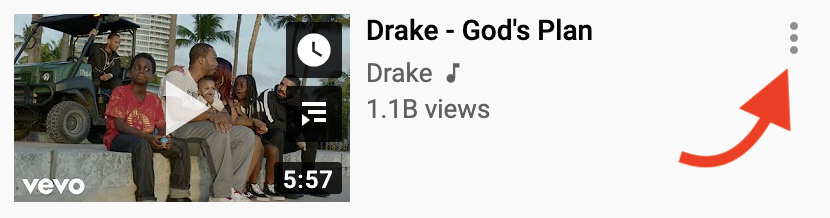
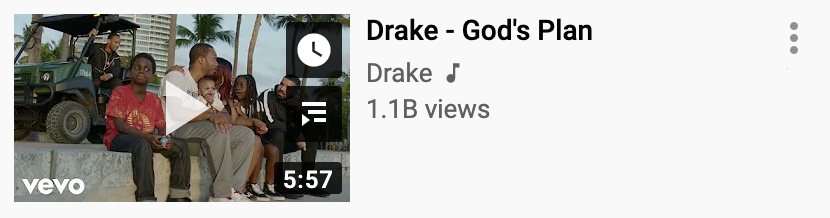
tab animation

Changed region(s): [[0.8133, 0.3303, 0.9639, 0.7706]]

diff --git a/src/content-scripts/index.scss b/src/content-scripts/index.scss
@@ -392,3 +392,107 @@ ytd-app {
       0 0px 80px rgba(0, 0, 0, 0.07);
   }
 }
+
+.relative {
+  position: relative;
+}
+
+.tappable {
+  position: absolute;
+  right: 50px;
+  top: 35px;
+  width: 64px;
+  height: 64px;
+  display: -webkit-box;
+  display: flex;
+  -webkit-box-pack: center;
+  justify-content: center;
+  -webkit-box-align: center;
+  align-items: center;
+}
+
+.tappable::before {
+  content: " ";
+  display: inline-block;
+  border-radius: 50%;
+  background: #11111177;
+  opacity: 0;
+  width: 100%;
+  height: 100%;
+  -webkit-transform: scale3d(0.25, 0.25, 1);
+  transform: scale3d(0.25, 0.25, 1);
+  -webkit-animation-name: ripple;
+  animation-name: ripple;
+  -webkit-animation-delay: 400ms;
+  animation-delay: 400ms;
+  -webkit-animation-duration: 2500ms;
+  animation-duration: 2500ms;
+  -webkit-animation-iteration-count: infinite;
+  animation-iteration-count: infinite;
+  -webkit-animation-timing-function: ease;
+  animation-timing-function: ease;
+}
+
+@-webkit-keyframes ripple {
+  0% {
+    opacity: 0;
+    -webkit-transform: scale3d(0.25, 0.25, 1);
+    transform: scale3d(0.25, 0.25, 1);
+  }
+
+  20% {
+    opacity: 1;
+    -webkit-transform: scale3d(0.1875, 0.1875, 1);
+    transform: scale3d(0.1875, 0.1875, 1);
+  }
+
+  100% {
+    opacity: 0;
+    -webkit-transform: scale3d(1, 1, 1);
+    transform: scale3d(1, 1, 1);
+  }
+}
+
+@keyframes ripple {
+  0% {
+    opacity: 0;
+    -webkit-transform: scale3d(0.25, 0.25, 1);
+    transform: scale3d(0.25, 0.25, 1);
+  }
+
+  20% {
+    opacity: 1;
+    -webkit-transform: scale3d(0.1875, 0.1875, 1);
+    transform: scale3d(0.1875, 0.1875, 1);
+  }
+
+  100% {
+    opacity: 0;
+    -webkit-transform: scale3d(1, 1, 1);
+    transform: scale3d(1, 1, 1);
+  }
+}
+
+@-webkit-keyframes tap {
+  0% {
+    -webkit-transform: rotate(0) scale3d(1, 1, 1);
+    transform: rotate(0) scale3d(1, 1, 1);
+  }
+
+  100% {
+    -webkit-transform: rotate(-20deg) scale3d(0.9, 0.9, 1);
+    transform: rotate(-20deg) scale3d(0.9, 0.9, 1);
+  }
+}
+
+@keyframes tap {
+  0% {
+    -webkit-transform: rotate(0) scale3d(1, 1, 1);
+    transform: rotate(0) scale3d(1, 1, 1);
+  }
+
+  100% {
+    -webkit-transform: rotate(-20deg) scale3d(0.9, 0.9, 1);
+    transform: rotate(-20deg) scale3d(0.9, 0.9, 1);
+  }
+}

diff --git a/src/background.js b/src/background.js
@@ -110,10 +110,9 @@ chrome.runtime.onMessage.addListener(function (
 
 // on loading tab
 chrome.webNavigation.onCompleted.addListener(function ({ url, tabId }) {
+  console.log({ url });
   url = new URL(url);
-  if (url.host.includes("youtube")) {
-    chrome.pageAction.show(tabId);
-
+  if (url.host.includes("youtube") || tabId === partyTabId) {
     chrome.storage.local.get(["party"], async (result) => {
       const storedParty = result?.party;
       const playlistId = url.searchParams.get("playlistPartyId");
@@ -139,8 +138,6 @@ chrome.webNavigation.onCompleted.addListener(function ({ url, tabId }) {
         }
       }
     });
-  } else {
-    chrome.pageAction.hide(tabId);
   }
 });
 

diff --git a/src/content-scripts/components/SideBar.js b/src/content-scripts/components/SideBar.js
@@ -112,7 +112,10 @@ const EmptyPlaylist = () => {
         No tracks added to the playlist. Click on any video to add it to the
         playlist.
       </p>
-      <img src={imgUrl} />
+      <div className="relative">
+        <img src={imgUrl} />
+        <div className="tappable" />
+      </div>
     </div>
   );
 };
@@ -177,8 +180,6 @@ const Track = ({
   const thumbnail = `https://i.ytimg.com/vi/${url
     .split("watch?v=")
     .pop()}/default.jpg`;
-
-  console.log({ user, addedBy });
 
   const isOwn = addedBy && user && user.id === addedBy.id;
 

diff --git a/README.md b/README.md
@@ -3,6 +3,9 @@
 ## Requirements
 
 - Yarn v1.21.1 (any version >=1.2 should work)
+- Node v12
+
+The extension was developed on macOS 10.15.4.
 
 ### Create production build
 
